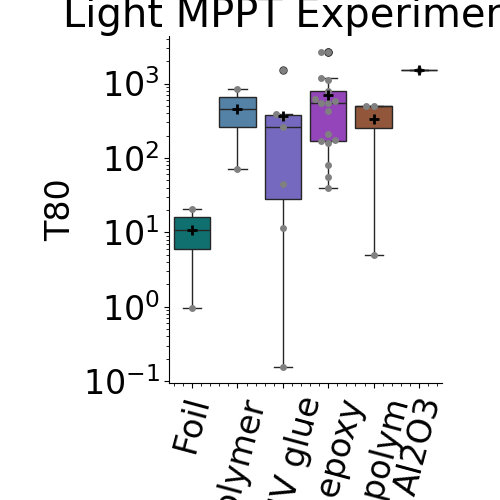
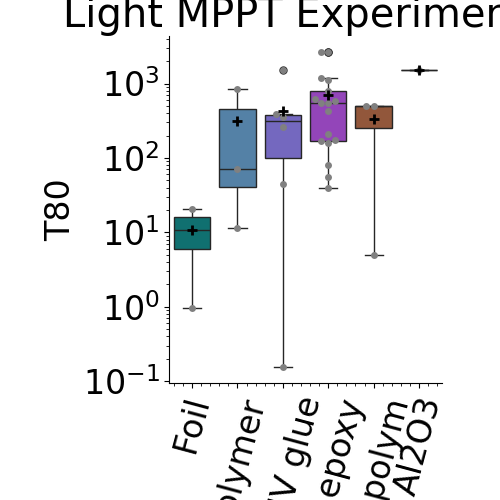
rows in Manual additions that do not have any values in the Ref_ID will be added to the python table

Changed region(s): [[0.42, 0.18, 0.63, 0.48], [0.54, 0.45, 0.57, 0.48]]

diff --git a/Provskite_Encapsulation_Comparison.py b/Provskite_Encapsulation_Comparison.py
@@ -12,11 +12,15 @@ if __name__ == '__main__':
     output_path = dir_path + "\\outputs"
     Perovskites = pd.read_csv(dir_path + "\\inputs\\Perovsite database query.csv")
 
-    #adding encapsulation info retrieved from the articles:
+    #adding/fixing info retrieved from the articles:
     additional_info = pd.read_csv(dir_path + "\\inputs\\Manual additions.csv")
+    additional_info['Ref_ID'].fillna(0, inplace=True,downcast='infer')
+    additional_info['Ref_ID'] = pd.to_numeric(additional_info['Ref_ID'])
     for i, row in additional_info.iterrows():
         Perovskites.loc[Perovskites.Ref_ID == row['Ref_ID']] = additional_info.loc[i].values
-    print('added/changed encapsulation info using: Manual additions.csv') # contains rows from Perovsite database query.csv with additions/changes in columns 'Encapsulation_stack_sequence', 'Encapsulation_edge_sealing_materials'  (97 rows with encapsulation changes) or Stability_time_total_exposure, Stability_PCE_end_of_experiment (4 rows with PCE info corrections)
+        if row['Ref_ID'] == 0:
+            Perovskites.loc[len(Perovskites)] =additional_info.loc[i].values
+    print('added/changed encapsulation info using: Manual additions.csv') # contains rows from Perovsite database query.csv with additions/changes in columns 'Encapsulation_stack_sequence', 'Encapsulation_edge_sealing_materials'  (97 rows with encapsulation changes) or Stability_time_total_exposure, Stability_PCE_end_of_experiment
 
     #taking out the rows with stability atmosphere N2 or Ar:
     num_of_rows_before_taking_out_atmosphereN2 = len(Perovskites)
@@ -51,8 +55,7 @@ if __name__ == '__main__':
     # if Stability_PCE_end_of_experiment=0 take Stability_PCE_end_of_experiment=0.001 in order to prevent converging ln(0) to -infinity
     Perovskites.loc[Perovskites['Stability_PCE_end_of_experiment'] == 0, 'Stability_PCE_end_of_experiment'] = 0.001
 
-    #BURN IN FALSE:
-    # TAKE T80
+    #BURN IN FALSE (T80 is the defult):
     # T80 doesn't exist take Ts80
     # T80, Ts80 don't exist use T95 via: ln(0.8) * T95/ ln(0.95)
     # T80, Ts80, T95 don't exist ->CALC VIA EXP
@@ -60,11 +63,10 @@ if __name__ == '__main__':
     Perovskites.loc[((Perovskites['Stability_PCE_burn_in_observed'] == False) & (Perovskites['Stability_PCE_T95'].isna()==False)), 'Calculated_T80'] = np.log(0.8) * Perovskites['Stability_PCE_T95'] / np.log(0.95)
     Perovskites.loc[((Perovskites['Stability_PCE_burn_in_observed'] == False) & (Perovskites['Stability_PCE_Ts80'].isna()==False)), 'Calculated_T80'] = Perovskites['Stability_PCE_Ts80']
     Perovskites.loc[((Perovskites['Stability_PCE_burn_in_observed'] == False) & (Perovskites['Stability_PCE_T80'].isna()==False)), 'Calculated_T80'] = Perovskites['Stability_PCE_T80']
-    #BURN IN TRUE:
-    #TAKE TS80
+    #BURN IN TRUE (TS80 is the defult):
     #TS80 doesn't exist - use T80
     #T80 doesn't exist- use Te80
-    #TS80/Te80 don't exist CALC VIA EXP using PCE (1000H)+ END POINT
+    #TS80/Te80 don't exist CALC VIA EXP using PCE(1000H) and PCE(END)
     Perovskites.loc[((Perovskites['Stability_PCE_burn_in_observed'] == True) & (Perovskites['Stability_PCE_after_1000_h'].isna()==False) &
     (Perovskites['Stability_PCE_after_1000_h'] != Perovskites['Stability_PCE_end_of_experiment'])), 'Calculated_T80'] = \
     -np.log(0.8)*(Perovskites['Stability_time_total_exposure']-1000.0)/np.log(Perovskites['Stability_PCE_after_1000_h']/Perovskites['Stability_PCE_end_of_experiment'])
@@ -294,9 +296,8 @@ if __name__ == '__main__':
         ~Glass_epoxy['Stability_protocol'].str.contains('D', regex=False))]['logT80'].reset_index(drop=True))
     Glass_epoxy_logT80.append(Glass_epoxy[(Glass_epoxy['Stability_potential_bias_load_condition'] == 'MPPT') |
                                            (Glass_epoxy['Stability_potential_bias_load_condition'] == 'Passive resistance')]['logT80'].reset_index(drop=True))
-
     table = []
-    table.append(['', 'Foil','Polymer','Glass UV glue','Glass epoxy','Glass butyl rubber','Glass Polymer','Al2O3', 'Total'])
+    table.append(['', 'Foil','Polymer','Glass UV glue','Glass epoxy','Glass butyl rubber','Glass Polymer','Al2O3'])
     my_colors = {'Foil': 'teal', 'Polymer': 'steelblue', 'SLG+UV glue': 'slateblue', 'SLG+epoxy':'darkorchid','SLG+but_rub':'mediumvioletred' ,'SLG+polym': 'sienna', 'Al2O3':'darkkhaki' }
     for i in range(6):
         data_for_box_plot = pd.concat([Foils_T80[i],polymer_T80[i], Glass_UV_glue_T80[i], Glass_epoxy_T80[i],Glass_butyl_rubber_T80[i],Glass_polymer_T80[i],Al2O3_T80[i]], axis =1)  # horizontal_concat
